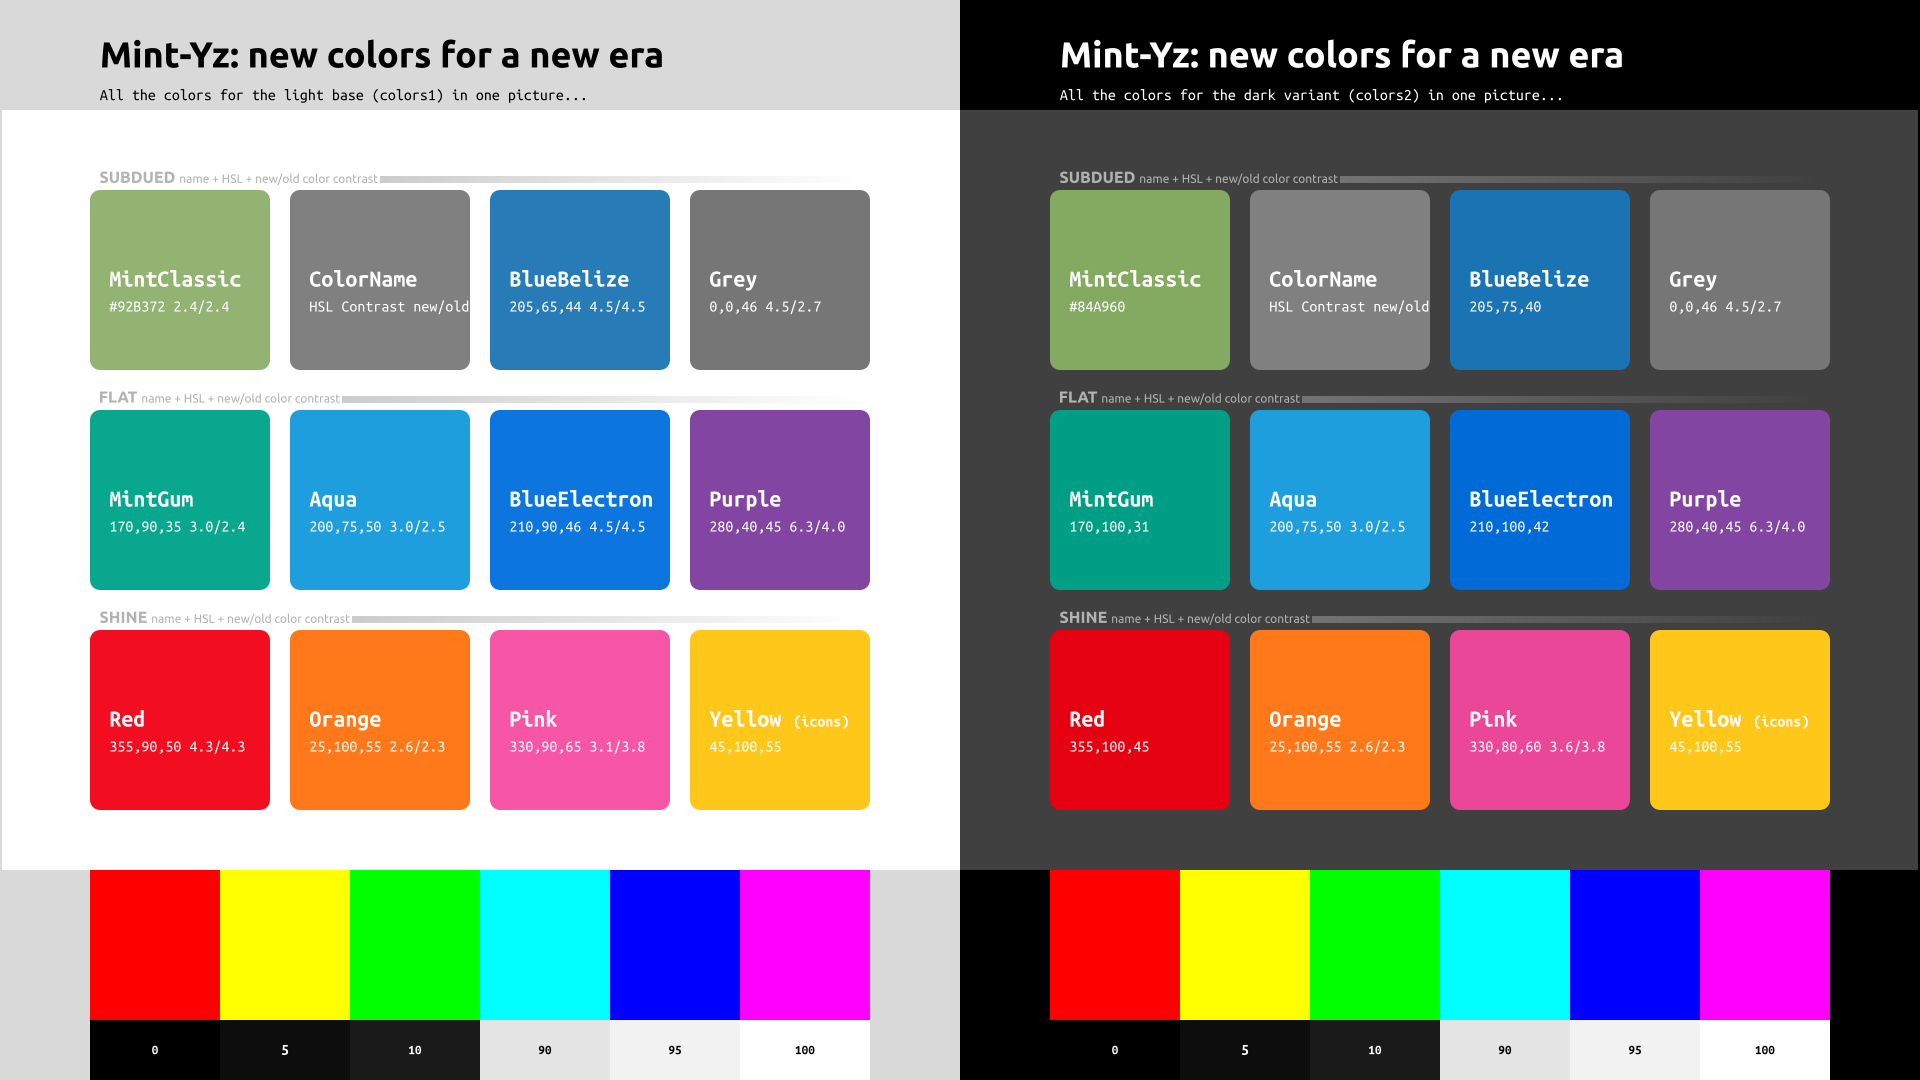
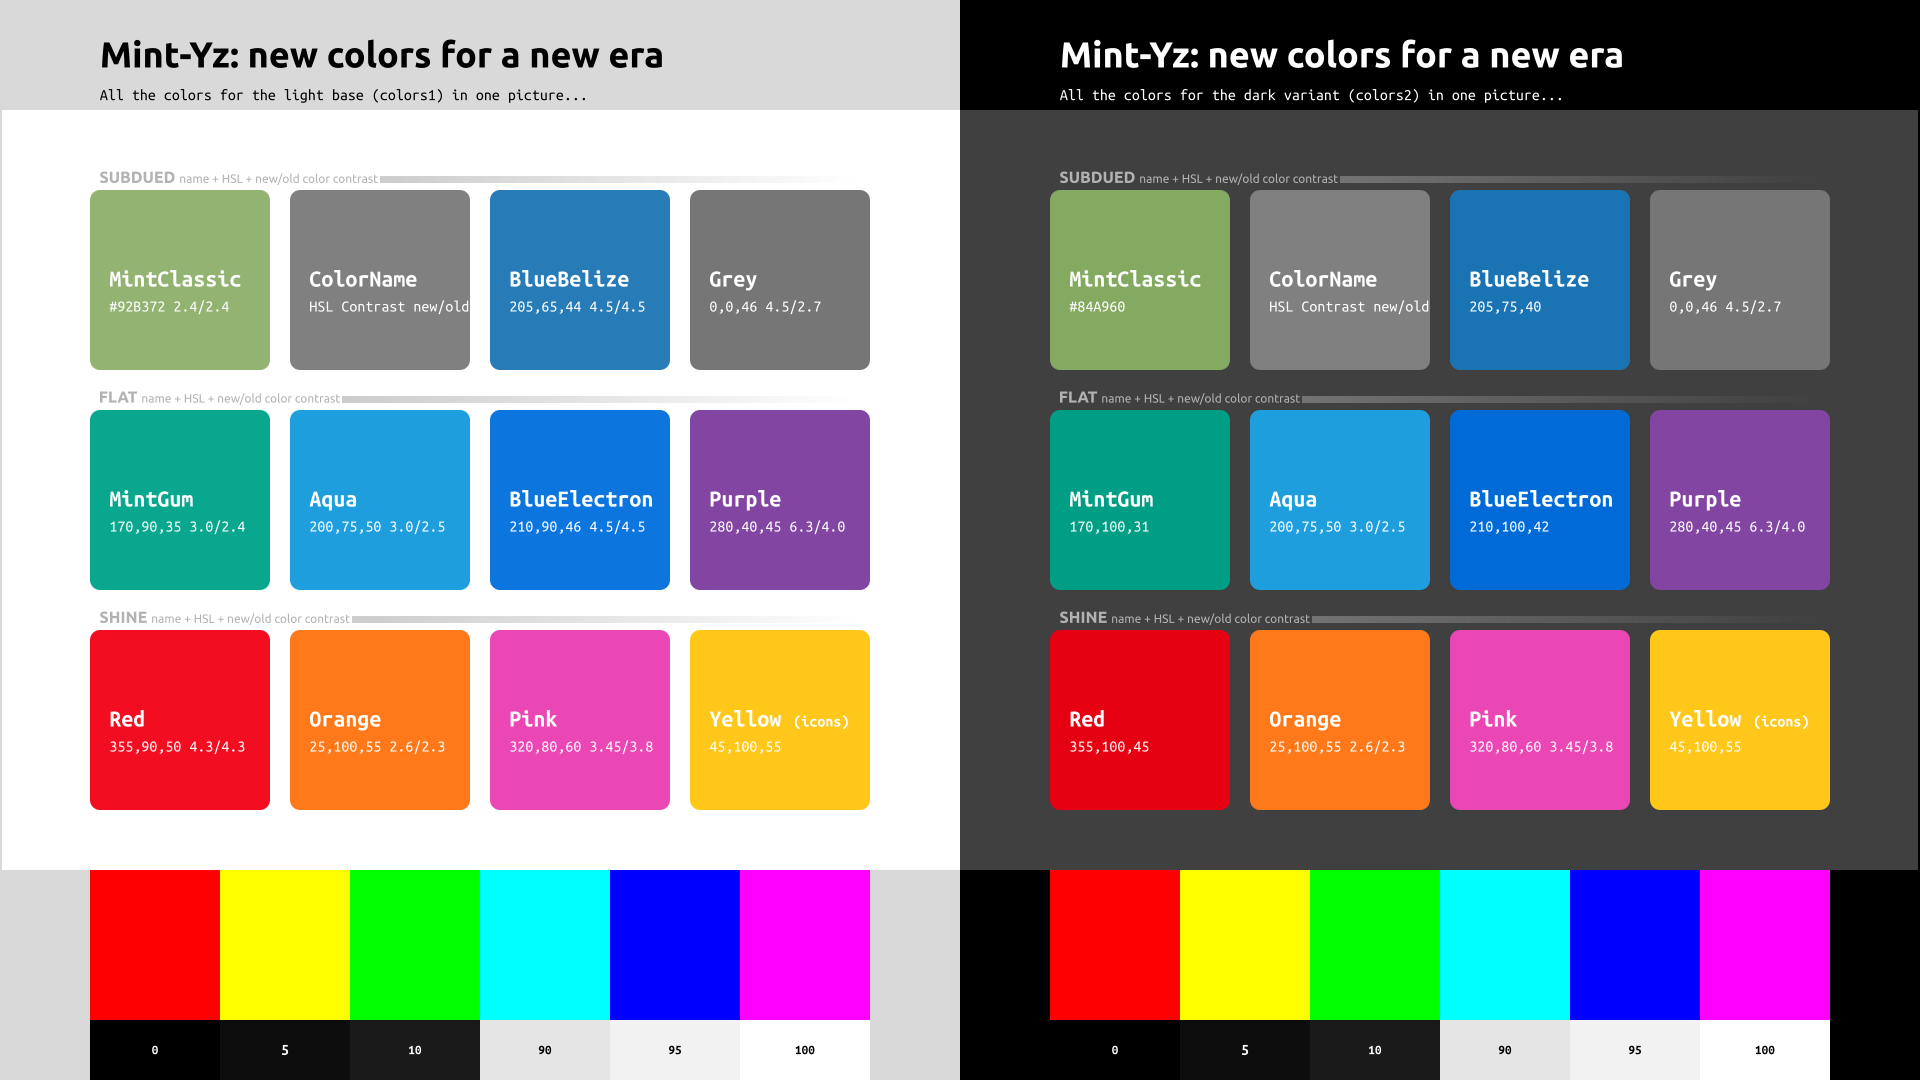
Modified: Pink = 320,80,60 HSL (5 files)
modified:   Mint-Y-Colors/Mint-Y-Variations-compare-OLD.png
	modified:   Mint-Y-Colors/Mint-Y-Variations-compare-OLD.svg
	modified:   Mint-Y-Colors/Mint-Y-Variations.png
	modified:   Mint-Y-Colors/Mint-Y-Variations.svg
	modified:   constants.py

Changed region(s): [[0.75, 0.5806, 0.875, 0.7639], [0.3125, 0.6722, 0.3438, 0.7028]]

diff --git a/constants.py b/constants.py
@@ -38,5 +38,5 @@ y_hex_colors2["Red"] = "#E50012"
 y_hex_colors1["Orange"] = "#FF791A"
 y_hex_colors2["Orange"] = "#FF791A"
 
-y_hex_colors1["Pink"] = "#F656A5"
-y_hex_colors2["Pink"] = "#EB4798"
+y_hex_colors1["Pink"] = "#EB47B4"
+y_hex_colors2["Pink"] = "#EB47B4"
